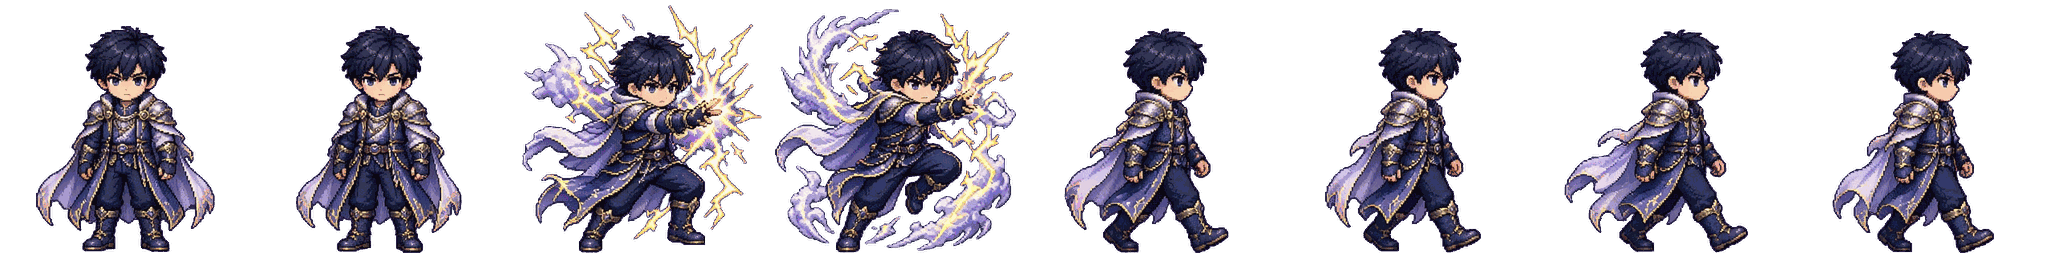
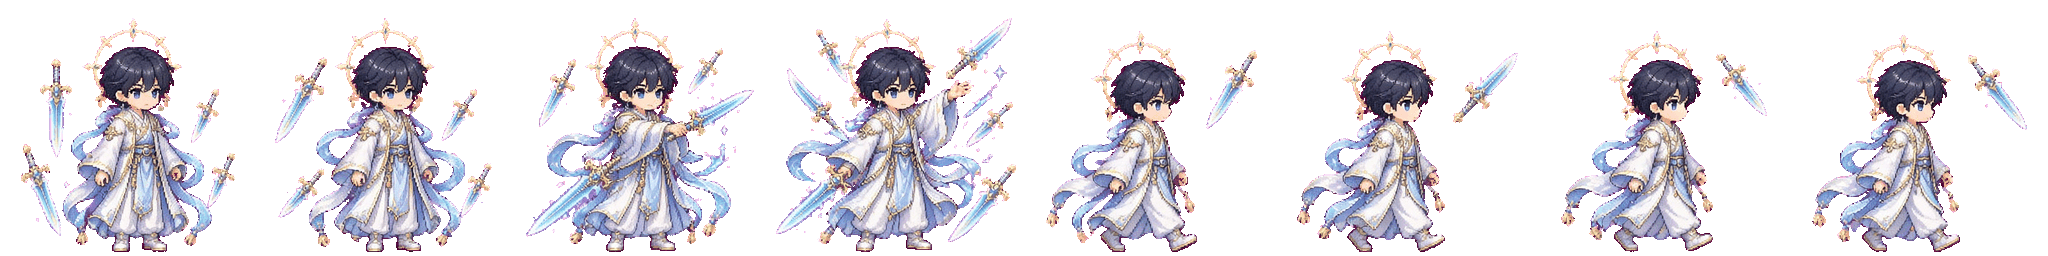
V227 히든 워 비 샹샹중 퍄오량 (차원검 14자루 + 차원 절단 피날레 + 짱재 검성 스킨)
Claude-Session: https://claude.ai/code/session_01GnYwrBFdgHxKnSbY9Q45Ky

diff --git a/docs/HANDOFF.md b/docs/HANDOFF.md
@@ -495,6 +495,7 @@
 - 포탈: 어검이 포탈(fx/ds_portal.png)로 들어감 → 반대편 포탈 6개에서 복제 어검 44자루가 튀어나와 관통 → 반대편 포탈로 사라짐 → 어검 복귀.
 - 피날레 「차원 절단」: 컷인 → 슬래시로 4줄 균열(눈·촉수 포함) → 3틱 B*20/20/36 (보스 ×0.6).
 - 밸런스: DSC.DM=1.67, SD=.74 → 재료 9,653 대비 약 111~112% (12시드, 170초, PRE=7000). 근거: 칼 7자루 본체 DPS가 대부분.
-- 스킨 「귀신베는 남자」 = 재건|10, POOL_V26, SC_VER 30. msk2/hx_dimsw.png는 임시(스톰카드 시트 복사).
+- 스킨 「귀신베는 남자」 = 재건|10, POOL_V26, SC_VER 30. msk2/hx_dimsw.png = 짱재 「검성」 스킨 시트(8프레임, 정식).
 - v3 피날레(컷인 삭제): `dsFinBg/dsFinFg/dsFinPoly/dsFinC/dsRain`. 밤하늘 → 폐허·구름(fx/ds_ruin.png 좌우 대칭) → 하늘을 슬래시로 벰 → 찢긴 틈에 「그 존재」(fx/ds_god.png, 일러스트를 1/4 도트화) + 번개 가장자리·작은 눈·늘어진 촉수 → 좌우 거대한 손(fx/ds_hand.png) → 어검 폭우(그림 전용, bot에서는 생략)가 눈에 꽂힘 → 3틱(B*20/20/36)마다 눈이 움찔 → 흰 섬광으로 닫힘. fx/ds_cutin.jpg 삭제. 밸런스 변화 없음(약 111%).
 - v4: 어검 14자루 = 7+amount씩 2세트(`st.sets[0/1]`, 짝수/홀수 인덱스). 세트마다 독립 패턴 시계(세트1은 warp 위치부터 시작), 서로 다른 적 무리를 노려 쉬는 틈이 없음. 대기 단축(rend 2.4s, warp 3s, 포탈 은신 ~1.5s). 큰 균열 동시 5개 제한. 피날레는 시간 ×0.55(약 11.4초): 천천히 베임(슬래시 12fps) → 천천히 열림 → 손·촉수·작은 눈 늦게 등장 → 어검 폭우가 화면 사방 테두리에서 점점 빽빽하게(간격 .11s→.0035s, 최대 480). 밸런스: DSC.DM=.95, SD=.37 → 약 112%(10,785 / 9,653).
+- V227 배포: 스킨 시트 msk2/hx_dimsw.png를 사용자 제공 「검성」 그림으로 교체(마젠타 크로마키, 8프레임 256px). 스킨명은 「귀신베는 남자」 유지(요청 시 개명 가능).
